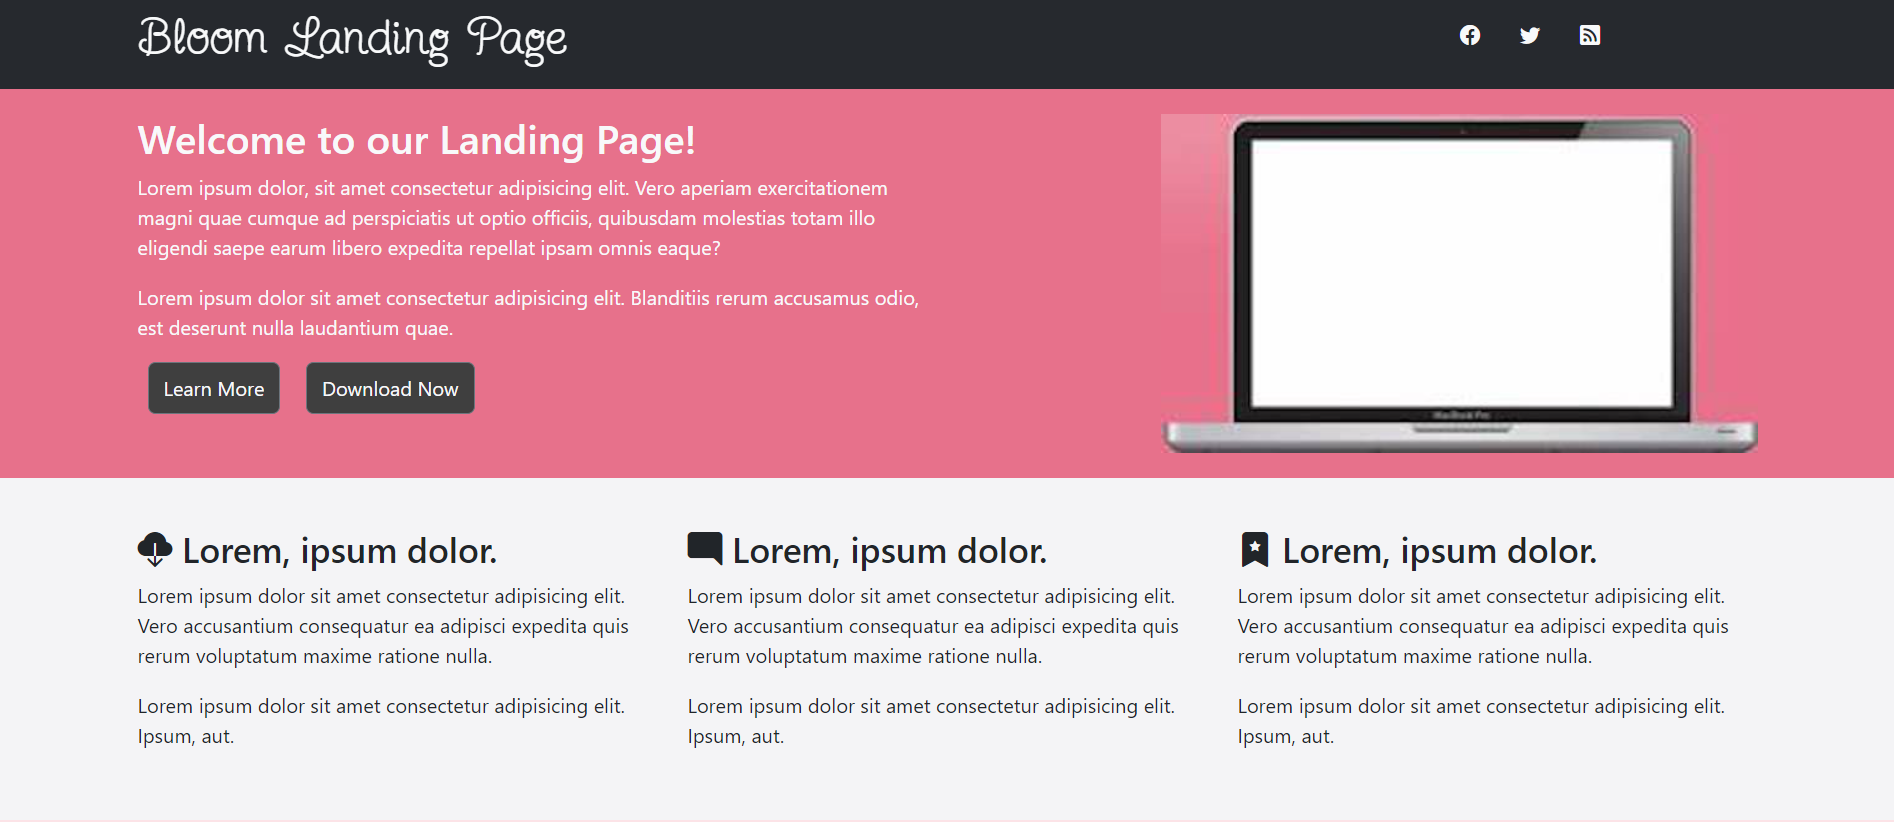
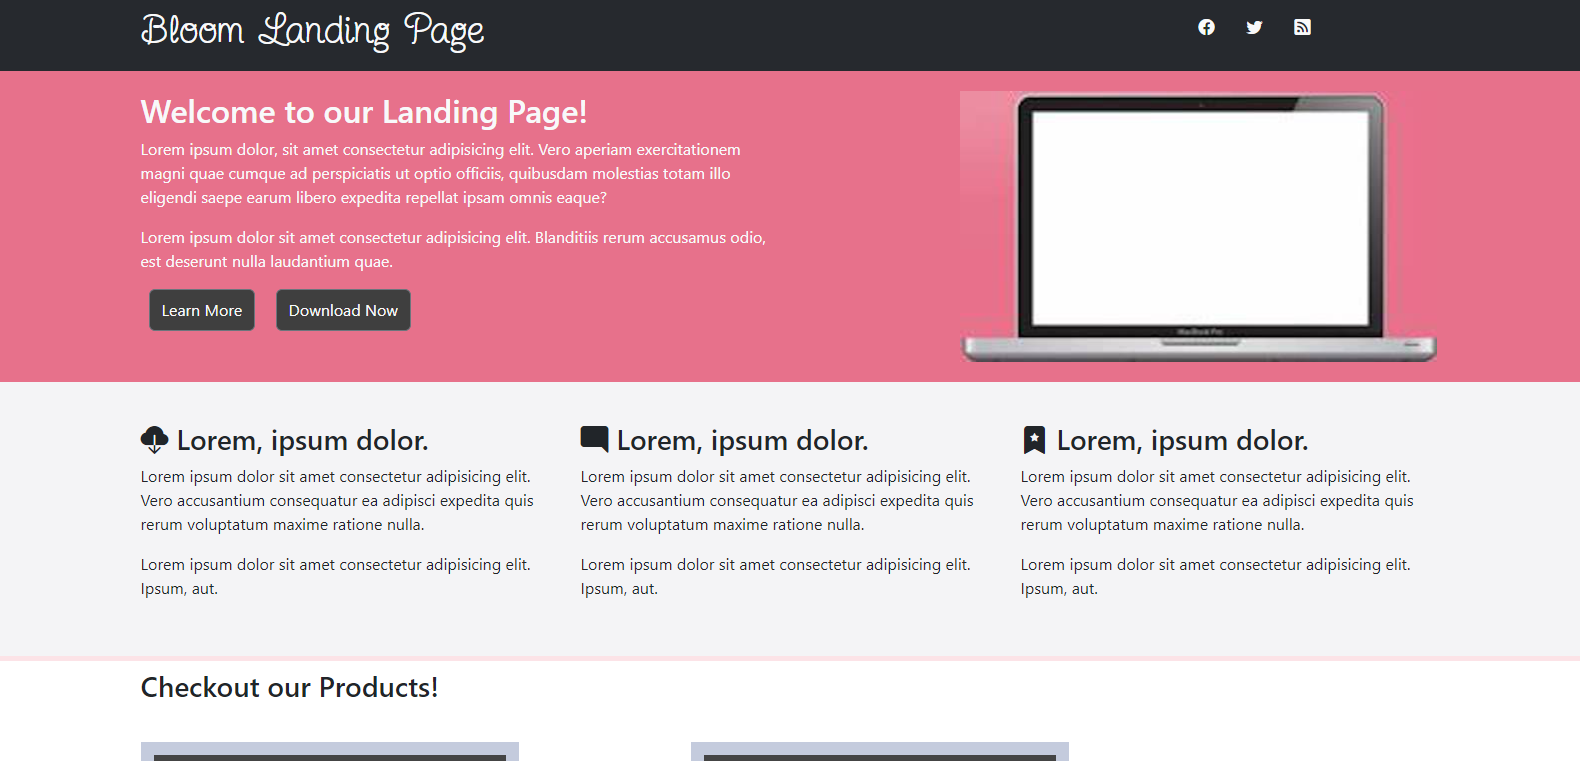
about me

diff --git a/project.html b/project.html
@@ -59,39 +59,67 @@
                                     <a href="#footerSection" class="nav-link text-decoration-none text-capitalize nav-text">contact</a>
                                 </nav>
                             </div>
+                        </div>
                     </div>
-                </div>
-            </section>
+                </section>
     </header>
-<main class="main" id="main">
+    <main class="main" id="main">
     <section class="section" id="projectSection">
         <div class="container">
             <div class="row">
-                <div class="card">
-                    <div class="card-header"> 
-                    Detroix
+                <div class="col-md-4 g-4">
+                    <div class="card">
+                        <img src="images/detroix.png" class="card-img-top image-fluid w-100" alt="a visual of a website of a company with a boy with dark hair and glasses in the image" />
+                        <div class="card-body card-color">
+                            <h5 class="card-title text-capitalize">detroix</h5>
+                            <a href="https://github.com/chloereynolds07/detroixbs" class="card-link">Source Code</a>
+                            <a href="https://chloereynolds07.github.io/detroixbs/" class="card-link">Live Page</a>
+                        </div>
                     </div>
-                    <img src="/images/detroix.png" class="card-img-top" alt="a visual of a website of a company with a boy with dark hair and glasses in the image" />
-                    <div class="card-body">
-                        <p class="card-text">
-                            Lorem, ipsum dolor.
-                        </p>
-                    </div>
-                </div>
-            </div>
-            <p class="d-inline-flex">
-                <a 
-                data-bs-toggle="collapse"
-                class="btn btn-dark"
-                href="#collapseButton" 
-                role="button" 
-                aria-expanded="false" aria-controls="collapseButton">
-                    Show more
-                </a>
-            </p>
-            <div class="collapse" id="collapseButton">
+                    <p class="d-inline-flex pt-2">
+                        <a data-bs-toggle="collapse" class="btn btn-dark" href="#collapseButton1" role="button" aria-expanded="false" aria-controls="collapseButton1">Show more</a>
+                    </p>
+            <div class="collapse" id="collapseButton1">
                 <div class="card card-body card-background text-light" style="width: 300px;">
                     Lorem ipsum dolor sit, amet consectetur adipisicing elit. Cumque, quas?
+                </div>
+            </div>
+        </div>
+                <div class="col-md-4 g-4">
+                    <div class="card">
+                        <img src="images/bloom.png" class="card-img-top image-fluid w-100" alt="a visual of a website of a company with a boy with dark hair and glasses in the image" />
+                        <div class="card-body card-color">
+                        <h5 class="card-title text-capitalize">bloom landing page</h5>
+                        <a href="https://github.com/chloereynolds07/detroixbs" class="card-link">Source Code</a>
+                        <a href="https://chloereynolds07.github.io/detroixbs/" class="card-link">Live Page</a>
+                        </div>
+                    </div>
+                    <p class="d-inline-flex pt-2">
+                        <a data-bs-toggle="collapse" class="btn btn-dark" href="#collapseButton2" role="button" aria-expanded="false" aria-controls="collapseButton2">Show more</a>
+                    </p>
+            <div class="collapse" id="collapseButton2">
+                <div class="card card-body card-background text-light" style="width: 300px;">
+                    Lorem ipsum dolor sit, amet consectetur adipisicing elit. Cumque, quas?
+                </div>
+            </div>
+                </div>
+                <div class="col-md-4 g-4">
+                    <div class="card">
+                        <img src="images/restaurant.png" class="card-img-top image-fluid w-100 bloom-img" alt="a visual of a website of a company with a boy with dark hair and glasses in the image" />
+                        <div class="card-body card-color">
+                        <h5 class="card-title text-capitalize">restaurant</h5>
+                        <a href="https://github.com/chloereynolds07/detroixbs" class="card-link">Source Code</a>
+                        <a href="https://chloereynolds07.github.io/detroixbs/" class="card-link">Live Page</a>
+                        </div>
+                    </div>
+                    <p class="d-inline-flex pt-2">
+                        <a data-bs-toggle="collapse" class="btn btn-dark" href="#collapseButton3" role="button" aria-expanded="false" aria-controls="collapseButton3">Show more</a>
+                    </p>
+            <div class="collapse" id="collapseButton3">
+                <div class="card card-body card-background text-light" style="width: 300px;">
+                    Lorem ipsum dolor sit, amet consectetur adipisicing elit. Cumque, quas?
+                </div>
+            </div>
                 </div>
             </div>
         </div>
@@ -112,7 +140,7 @@
                                 Email me!
                             </li>
                         </a>
-                        <a href="tel:+(769) 487-5805" class="phone-number text-decoration-none">
+                        <a href=" tel:769-(487)-(5805)" class="phone-number text-decoration-none">
                             <li class="social-list">
                                 <i class="bi bi-phone icon-socials"></i>
                                 <span class="visually-hidden">phone number</span>

diff --git a/about.html b/about.html
@@ -71,7 +71,7 @@
                     About me
                 </h2>
                 <div class="about-box">
-                    <div class="col-md-9">
+                    <div class="col-md-4">
                         <p class="about-text">Lorem ipsum dolor sit amet, consectetur adipisicing elit. Illum, itaque iste praesentium autem veniam nemo! Nesciunt ipsam iusto dolorum odit magni tempora corporis illum reiciendis totam aut mollitia perspiciatis quasi, deserunt excepturi, id voluptatum at qui repellendus nam. Nostrum esse rem quos ipsum temporibus similique aspernatur eum reprehenderit ea accusantium.</p>
                     </div>
                 </div>
@@ -93,7 +93,7 @@
                                 Email me!
                             </li>
                         </a>
-                        <a href="tel:+(769) 487-5805" class="phone-number text-decoration-none">
+                        <a href="tel: 769-(487)-(5805)" class="phone-number text-decoration-none">
                             <li class="social-list">
                                 <i class="bi bi-phone icon-socials"></i>
                                 <span class="visually-hidden">phone number</span>

diff --git a/index.html b/index.html
@@ -104,7 +104,7 @@
                                     Email me!
                                 </li>
                             </a>
-                            <a href="tel:+(769) 487-5805" class="phone-number text-decoration-none">
+                            <a href="tel: 769-(487)-(5805)" class="phone-number text-decoration-none">
                                 <li class="social-list">
                                     <i class="bi bi-phone icon-socials"></i>
                                     <span class="visually-hidden">phone number</span>

diff --git a/css/style.css b/css/style.css
@@ -163,7 +163,7 @@ body {
 
 .about-box {
     background-color: var(--beige);
-    width: 30%;
+    width: 70%;
     padding: 20px;
 }
 
